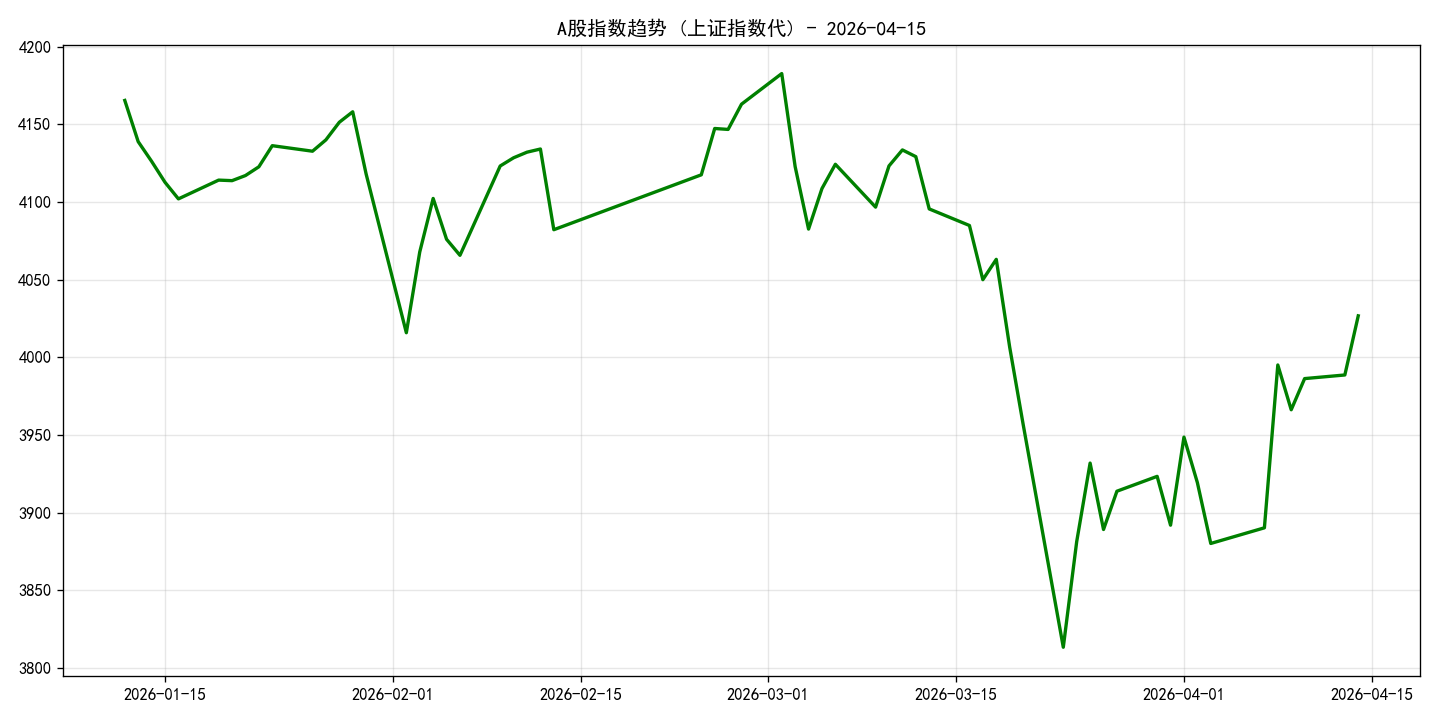
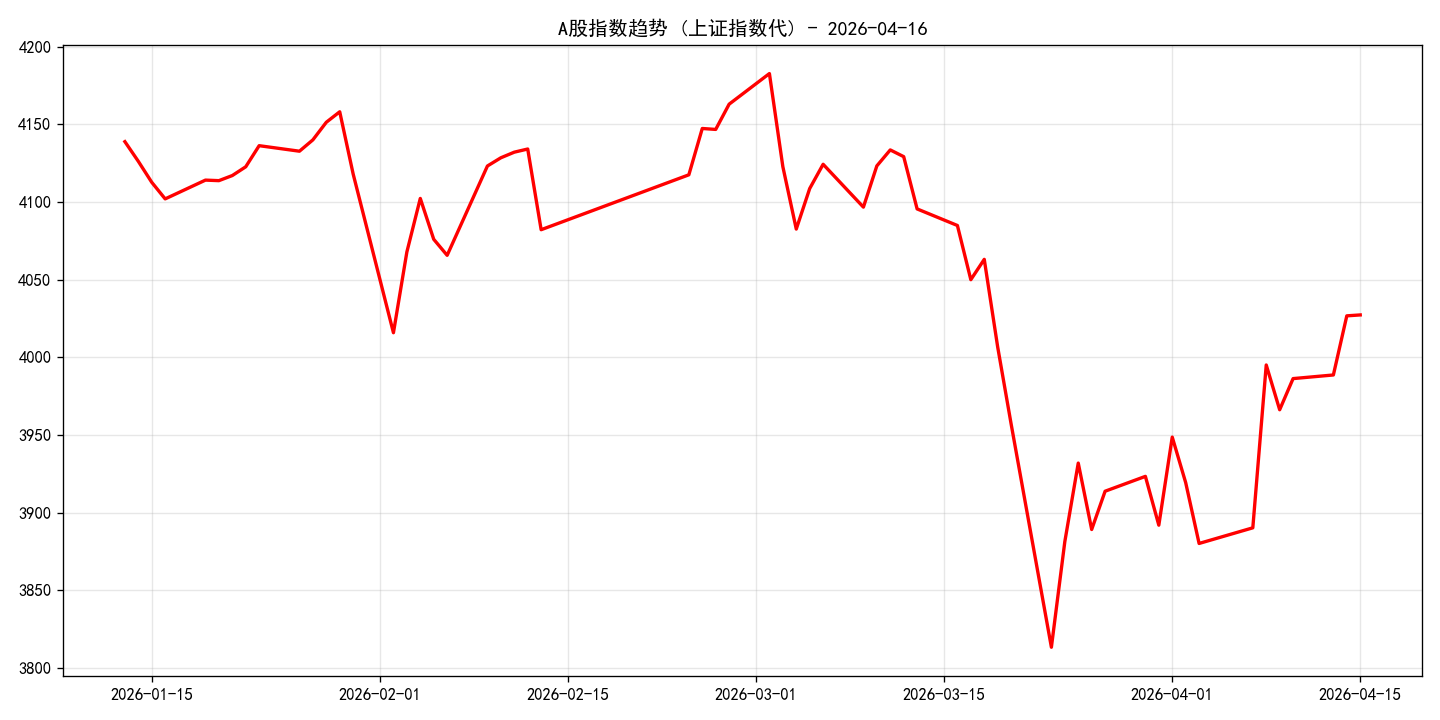
Auto: Daily A-share Recap Update 2026-04-16

diff --git a/ashare_recap.html b/ashare_recap.html
@@ -3,7 +3,7 @@
 <head>
     <meta charset="UTF-8">
     <meta name="viewport" content="width=device-width, initial-scale=1.0">
-    <title>A股收盘复盘 - 2026-04-15</title>
+    <title>A股收盘复盘 - 2026-04-16</title>
     <style>
         body { font-family: sans-serif; padding: 20px; line-height: 1.6; max-width: 800px; margin: 0 auto; background: #f9f9f9; }
         .card { background: white; padding: 20px; border-radius: 12px; shadow: 0 4px 10px rgba(0,0,0,0.1); }
@@ -15,12 +15,12 @@
 </head>
 <body>
     <div class="card">
-        <h1>A股收盘复盘 (2026-04-15)</h1>
+        <h1>A股收盘复盘 (2026-04-16)</h1>
         <div class="stat">
-            中证全指：6153.96 
-            <span class="down">(-0.44%)</span>
+            中证全指：6239.49 
+            <span class="up">(+1.39%)</span>
         </div>
-        <p>今日市场呈现<strong>下跌</strong>态势。成交额约为 23694.85 亿元。</p>
+        <p>今日市场呈现<strong>上涨</strong>态势。成交额约为 22914.70 亿元。</p>
         <img src="ashare_recap_trend.png" alt="Trend">
         <hr>
         <p style="text-align: center; color: #666;">自动生成于收盘后一小时 | 投研助手 Q</p>
